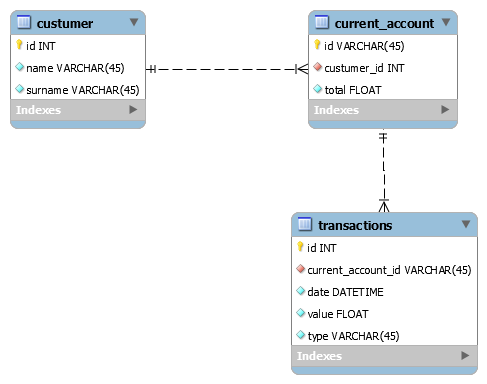
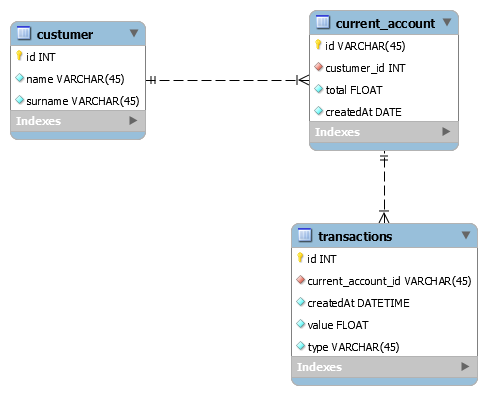
transaction module

diff --git a/src/module/service/current-account/current-account.service.ts b/src/module/service/current-account/current-account.service.ts
@@ -1,19 +1,50 @@
-import { Injectable } from '@nestjs/common';
+import { forwardRef, Inject, Injectable } from '@nestjs/common';
 import { currentAccountInput } from '../../input/current-account/current-account.input';
 import { CurrentAccountRepository } from '../../repository/current-account/current-account.repository';
-import { currentAccountSchema } from '../../schema/current-account/current-account.schema';
+import { basicInfoSchema, currentAccountSchema } from '../../schema/current-account/current-account.schema';
+import { CustumerService } from '../custumer/custumer.service';
+import { TransactionService } from '../transaction/transaction.service';
 
 @Injectable()
 export class CurrentAccountService {
-  constructor(private readonly currentAccountRepository: CurrentAccountRepository) {}
+  constructor(
+    private readonly currentAccountRepository: CurrentAccountRepository,
+    private readonly custumerService: CustumerService,
+    @Inject(forwardRef(() => TransactionService))
+    private readonly transactionService: TransactionService,
+  ) {}
+
   public async create(params: currentAccountInput): Promise<currentAccountSchema> {
     const data = this.checkInitialCredit(params);
-    return await this.currentAccountRepository.create(data);
+    const { id, createdAt, custumerId } = await this.currentAccountRepository.create(data);
+    const { value: total } = await this.transactionService.create({
+      currentAccountId: id,
+      value: params.initialCredit,
+    });
+    return { id, total, custumerId, createdAt };
+  }
+
+  public async update(data: currentAccountInput): Promise<currentAccountSchema> {
+    return this.currentAccountRepository.update(data);
+  }
+
+  public async findOne(id: number): Promise<currentAccountSchema> {
+    return this.currentAccountRepository.findOne(id);
+  }
+
+  public async basicInfo(accountId: number): Promise<basicInfoSchema> {
+    // const { total: balance, custumerId } = this.findOne(accountId);
+    // const { name, surname } = this.custumerService.findOne(custumerId);
+    // const transactions = this.transactionService.findAll(accountId);
+    // return { name, surname, balance, transactions };
+    return;
   }
 
   private checkInitialCredit(params: currentAccountInput): currentAccountInput {
     const { initialCredit, ...data } = params;
-    data.total = initialCredit !== 0 ? initialCredit : 0;
+    // TODO: throw error for negative initialCredit
+    if (initialCredit < 0) {
+    }
     return data;
   }
 }

diff --git a/src/module/service/transaction/transaction.service.ts b/src/module/service/transaction/transaction.service.ts
@@ -1,8 +1,30 @@
-import { Injectable } from '@nestjs/common';
+import { forwardRef, Inject, Injectable } from '@nestjs/common';
+import { transactionInput } from 'src/module/input/transaction/transaction.input';
+import { TransactionRepository } from 'src/module/repository/transaction/transaction.repository';
+import { transactionSchema } from 'src/module/schema/transaction/transaction.schema';
+import { CurrentAccountService } from '../current-account/current-account.service';
 
 @Injectable()
 export class TransactionService {
-  getHello(): string {
-    return 'chamaa!';
+  constructor(
+    private readonly transactionRepository: TransactionRepository,
+    @Inject(forwardRef(() => CurrentAccountService))
+    private readonly currentAccountService: CurrentAccountService,
+  ) {}
+
+  public async create(params: transactionInput): Promise<transactionSchema> {
+    const { value, currentAccountId } = params;
+    const type = this.typeTransaction(value);
+    let { total } = await this.currentAccountService.findOne(currentAccountId);
+    await this.currentAccountService.update({ total: total + value });
+    return await this.transactionRepository.create({ type, ...params });
+  }
+
+  public async findAll(accountId: number): Promise<transactionSchema[]> {
+    return await this.transactionRepository.findAll(accountId);
+  }
+
+  private typeTransaction(value: number): string {
+    return value > 0 ? 'CREDIT' : 'DEBIT';
   }
 }

diff --git a/src/module/index.ts b/src/module/index.ts
@@ -1,9 +1,13 @@
 import { CurrentAccountController } from './controller/current-account/current-account.controller';
+import { CustumerController } from './controller/custumer/custumer.controller';
 import { TransactionController } from './controller/transaction/transaction.controller';
 import { CurrentAccountRepository } from './repository/current-account/current-account.repository';
+import { CustumerRepository } from './repository/custumer/custumer.repository';
+import { TransactionRepository } from './repository/transaction/transaction.repository';
 import { CurrentAccountService } from './service/current-account/current-account.service';
+import { CustumerService } from './service/custumer/custumer.service';
 import { TransactionService } from './service/transaction/transaction.service';
 
-export const controllers = [TransactionController, CurrentAccountController];
-export const services = [TransactionService, CurrentAccountService];
-export const repositories = [CurrentAccountRepository];
+export const controllers = [TransactionController, CurrentAccountController, CustumerController];
+export const services = [CurrentAccountService, TransactionService, CustumerService];
+export const repositories = [CurrentAccountRepository, CustumerRepository, TransactionRepository];

diff --git a/src/module/controller/current-account/current-account.controller.ts b/src/module/controller/current-account/current-account.controller.ts
@@ -1,7 +1,7 @@
-import { Body, Controller, Post } from '@nestjs/common';
-import { ApiTags } from '@nestjs/swagger';
+import { Body, Controller, Get, Param, Post } from '@nestjs/common';
+import { ApiParam, ApiTags } from '@nestjs/swagger';
 import { currentAccountInput } from '../../input/current-account/current-account.input';
-import { currentAccountSchema } from '../../schema/current-account/current-account.schema';
+import { basicInfoSchema, currentAccountSchema } from '../../schema/current-account/current-account.schema';
 import { CurrentAccountService } from '../../service/current-account/current-account.service';
 
 @ApiTags('current-account')
@@ -12,5 +12,11 @@ export class CurrentAccountController {
   @Post('/')
   public async create(@Body() body: currentAccountInput): Promise<currentAccountSchema> {
     return this.currentAccountService.create(body);
+  }
+
+  @Get('/basic-info/:accountId')
+  @ApiParam({ name: 'accountId', type: 'number', description: '1' })
+  public async findAccountBasicInfo(@Param() params): Promise<basicInfoSchema> {
+    return this.currentAccountService.basicInfo(params.accountId);
   }
 }

diff --git a/src/module/repository/current-account/current-account.repository.ts b/src/module/repository/current-account/current-account.repository.ts
@@ -6,6 +6,27 @@ const prisma = new PrismaClient();
 
 export class CurrentAccountRepository {
   public async create(data: currentAccountInput): Promise<currentAccountSchema> {
-    return prisma.currentAccount.create({ data });
+    return await prisma.currentAccount.create({ data });
+  }
+
+  public async update(data: currentAccountInput): Promise<currentAccountSchema> {
+    const { id, total, custumerId } = data;
+    return await prisma.currentAccount.update({
+      where: {
+        id,
+      },
+      data: {
+        custumerId,
+        total,
+      },
+    });
+  }
+
+  public async findOne(id: number): Promise<currentAccountSchema> {
+    return await prisma.currentAccount.findUnique({
+      where: {
+        id,
+      },
+    });
   }
 }

diff --git a/src/module/repository/transaction/transaction.repository.ts b/src/module/repository/transaction/transaction.repository.ts
@@ -1,0 +1,18 @@
+import { PrismaClient } from '@prisma/client';
+import { transactionInput } from 'src/module/input/transaction/transaction.input';
+import { transactionSchema } from 'src/module/schema/transaction/transaction.schema';
+
+const prisma = new PrismaClient();
+
+export class TransactionRepository {
+  public async create(data: transactionInput): Promise<transactionSchema> {
+    return await prisma.transaction.create({ data });
+  }
+  public async findAll(currentAccountId: number): Promise<transactionSchema[]> {
+    return await prisma.transaction.findMany({
+      where: {
+        currentAccountId,
+      },
+    });
+  }
+}

diff --git a/src/module/service/custumer/custumer.service.ts b/src/module/service/custumer/custumer.service.ts
@@ -1,0 +1,12 @@
+import { Injectable } from '@nestjs/common';
+import { CustumerRepository } from 'src/module/repository/custumer/custumer.repository';
+import { custumerSchema } from 'src/module/schema/custumer/custumer.schema';
+
+@Injectable()
+export class CustumerService {
+  constructor(private readonly custumerRepository: CustumerRepository) {}
+
+  public async findOne(id: number): Promise<custumerSchema> {
+    return await this.custumerRepository.findOne(id);
+  }
+}

diff --git a/src/module/repository/custumer/custumer.repository.ts b/src/module/repository/custumer/custumer.repository.ts
@@ -1,0 +1,14 @@
+import { PrismaClient } from '@prisma/client';
+import { custumerSchema } from 'src/module/schema/custumer/custumer.schema';
+
+const prisma = new PrismaClient();
+
+export class CustumerRepository {
+  public async findOne(id: number): Promise<custumerSchema> {
+    return await prisma.custumer.findUnique({
+      where: {
+        id,
+      },
+    });
+  }
+}

diff --git a/src/module/schema/current-account/current-account.schema.ts b/src/module/schema/current-account/current-account.schema.ts
@@ -1,6 +1,15 @@
+import { transactionSchema } from '../transaction/transaction.schema';
+
 export class currentAccountSchema {
   id: number;
   total: number;
   createdAt: Date;
   custumerId: number;
+}
+
+export class basicInfoSchema {
+  name: string;
+  surname: string;
+  balance: number;
+  transactions: transactionSchema[];
 }

diff --git a/src/module/input/current-account/current-account.input.ts b/src/module/input/current-account/current-account.input.ts
@@ -1,8 +1,10 @@
 import { ApiProperty } from '@nestjs/swagger';
 
 export class currentAccountInput {
+  id?: number;
+
   @ApiProperty({ example: '1' })
-  custumerId: number;
+  custumerId?: number | null;
 
   @ApiProperty({ example: '10.51' })
   initialCredit?: number;

diff --git a/src/module/controller/custumer/custumer.controller.ts b/src/module/controller/custumer/custumer.controller.ts
@@ -1,4 +1,4 @@
 import { Controller } from '@nestjs/common';
 
 @Controller()
-export class TransactionController {}
+export class CustumerController {}

diff --git a/src/module/input/transaction/transaction.input.ts b/src/module/input/transaction/transaction.input.ts
@@ -1,0 +1,7 @@
+export class transactionInput {
+  id?: number;
+  createdAt?: Date;
+  value: number;
+  type?: string;
+  currentAccountId: number;
+}
